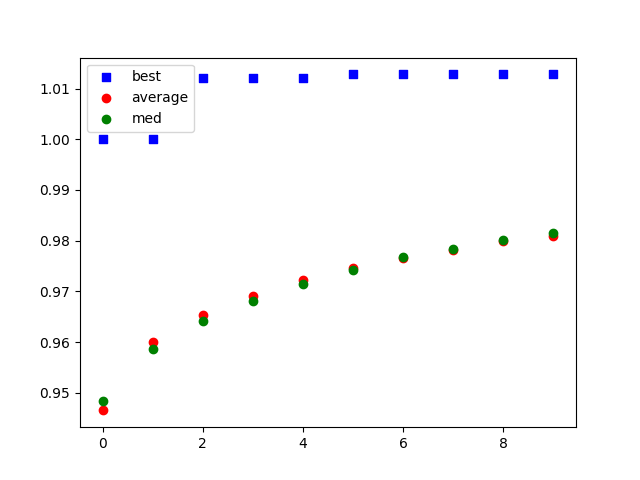
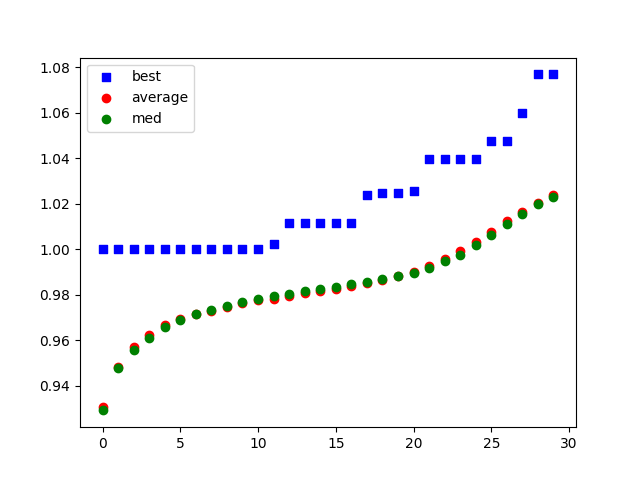
plotting fitness characterisitics

diff --git a/genetic_algorithm/population.py b/genetic_algorithm/population.py
@@ -31,20 +31,20 @@ class Population:
         self.done_running = False
     
     def evaluate_population(self):
+        self.performance_dict = {}
         for index, member in enumerate(self.population):
             # Assign the member a unique_id equal to index. 
             member.unique_id = index
-            score = self.fitness_function(member.obj, self.initial_metrics)
+            FitnessObj = self.fitness_function(member.obj, self.initial_metrics)
 
             # Check that this is the first time we see this id. 
             if member.unique_id in self.performance_dict:
                 RootLogger.log_warning(f'Population members with duplicate ids found in population. Overwriting fitness.')
-            self.performance_dict[member.unique_id] = score 
-        
-        self.set_performance_metrics()
+            self.performance_dict[member.unique_id] = FitnessObj
+        self.set_performance_metrics(self.performance_dict)
     
     def select_parents(self, pool: List[Chromosome]) -> Tuple[Chromosome, Chromosome]:
-        weights = scale_to_prob_dist([self.performance_dict[m.unique_id] for m in pool])
+        weights = scale_to_prob_dist([self.performance_dict[m.unique_id].fitness for m in pool])
 
         [parent_1, parent_2] = np.random.choice(pool, 
                                                      size=2, replace=False, 
@@ -77,7 +77,6 @@ class Population:
     def update_population(self):
         new_population = self.get_next_population()
         self.population = new_population
-        self.performance_dict = {}
         RootLogger.log_debug('New population updated successfully.')
         self.iteration_number += 1
 
@@ -93,7 +92,7 @@ class Population:
         # Select best performing networks
         RootLogger.log_debug(f'Performing Elitist Selection on population.')
         elitist_num = int(self.elitist_cutoff*self.population_size)
-        sorted_by_performance = sorted(self.population, key=lambda mem: self.performance_dict[mem.unique_id], reverse=True)
+        sorted_by_performance = sorted(self.population, key=lambda mem: self.performance_dict[mem.unique_id].fitness, reverse=True)
         top_performers = sorted_by_performance[:elitist_num]
         bot_performers = sorted_by_performance[elitist_num:]
         self.dispose_of_dead_chromosomes(bot_performers)
@@ -113,28 +112,47 @@ class Population:
         RootLogger.log_info(f'Done generating next Population...')
         return new_population
 
-    def set_performance_metrics(self):
-        metrics = self.generate_metrics()
+    def set_performance_metrics(self, current_fitness_metrics):
+        metrics = self.generate_metrics(current_fitness_metrics)
         self.per_round_metrics.append(metrics)
 
-    def generate_metrics(self):
-        if self.performance_dict == {}:
-            print('it is empty')
-        best_performer = max(self.performance_dict, key=self.performance_dict.get)
-        best_score = max(self.performance_dict.values()) 
+    def generate_metrics(self, current_fitness_metrics):
+        
+        # def get_stats(data: List) -> Tuple[float, float, float]:
+        #     return mean(data), median(data), stdev(data)
+        result = {}
+        best_performer = max(current_fitness_metrics, key=lambda iter: current_fitness_metrics[iter].fitness)
+        best_score = current_fitness_metrics[best_performer].fitness
+        result['best_performer'] = best_performer
+        result['best_fitness'] = best_score
 
-        avg_score = mean(self.performance_dict.values())
-        med_score = median(self.performance_dict.values())
+        tracking_metrics = current_fitness_metrics[0].get_metrics_list()
 
-        stdev_score = stdev(self.performance_dict.values())
+        metric_dicts = [f.to_dict() for f in current_fitness_metrics.values()]
+        for metric in tracking_metrics:
+            metric_values = [d[metric] for d in metric_dicts]
+            avg_metric, med_metric, stdev_metric = mean(metric_values), median(metric_values), stdev(metric_values)
+            result[f'avg_{metric}'] = avg_metric
+            result[f'med_{metric}'] = med_metric
+            result[f'stddev_{metric}'] = stdev_metric
+        
 
-        return {
-            'best_performer': best_performer, 
-            'best_fitness': best_score, 
-            'avg_score': avg_score, 
-            'med_score': med_score,
-            'stdev': stdev_score
-        }
+
+
+        # fitness_scores = [k.fitness for k in current_fitness_metrics.values()]
+        # avg_score, med_score, stdev_score = get_stats(fitness_scores)
+
+        # rirdership_values = [k.ridership_val for k in current_fitness_metrics.values()]
+        # avg_ridership, med_ridership, stdev_ridership = get_stats(rirdership_values)
+
+        # num_routes_values = [k.routes_val for k in current_fitness_metrics.values()]
+        # avg_num_routes, med_num_routes, stdev_num_routes = get_stats(num_routes_values)
+
+        # coverage_values = [k.coverage_val for k in current_fitness_metrics.values()]
+        # avg_coverage, med_coverage, stdev_coverage = get_stats(coverage_values)
+
+
+        return result
     def run(self, max_iteration: int):
         RootLogger.log_info(f'Running population for {max_iteration} iterations.')
 
@@ -149,16 +167,17 @@ class Population:
         self.done_running = True
         return self.per_round_metrics
     
-    def export_metrics(self, filename='results.csv') -> str:
+    def export_metrics(self, metrics_filename='results.csv') -> Tuple[str, str]:
         if not self.done_running:
             RootLogger.log_warning(f'Generating Metrics for unfinished population object...')
-        RootLogger.log_info(f'Outputting metrics to {filename}...')
+        RootLogger.log_info(f'Outputting metrics to {metrics_filename}...')
 
         df = pd.DataFrame(self.per_round_metrics)
-        df.to_csv(filename, index_label='iteration')
+        df.to_csv(metrics_filename, index_label='iteration')
 
-        RootLogger.log_info(f'Done outputting metrics to {filename}!')
-        return filename
+        RootLogger.log_info(f'Done outputting metrics to {metrics_filename}!')
+
+        return metrics_filename
         
             
     

diff --git a/graph_metrics.py b/graph_metrics.py
@@ -2,27 +2,55 @@ import matplotlib.pyplot as plt
 import pandas as pd 
 
 INTERATION_HEADER = 'iteration'
-AVERAGE_FITNESS_HEADER = 'avg_score'
-BEST_FITNESS_HEADER = 'best_fitness'
-MEDIAN_FITNESS_HEADER = 'med_score'
+FITNESS_HEADER = 'fitness'
 TIME_HEADER = 'time'
+
+RIDERSHIP_HEADER = 'ridership_val'
+NUM_ROUTES_HEADER = 'routes_val'
+COVERAGE_HEADER = 'coverage_val'
+RIDERSHIP_DENSITY_HEADER = 'ridership_density_val'
+
+def get_header(base: str, add_on: str):
+    return add_on + '_' + base
 
 def plot_per_round_metrics(filename, output_file='plot1.png'):
     df = pd.read_csv(filename)
-    plt.plot(df[INTERATION_HEADER], df[AVERAGE_FITNESS_HEADER])
+    plt.plot(df[INTERATION_HEADER], df[get_header(FITNESS_HEADER, 'avg')])
     plt.savefig(output_file)
 
+def plot_all_fitness_stats(filename, output_file='fitness_plot.png'):
+    df = pd.read_csv(filename)
+    x = df[INTERATION_HEADER]
+    avg_overall = df[get_header(FITNESS_HEADER, 'avg')]
+    ridership = df[get_header(RIDERSHIP_HEADER, 'avg')]
+    num_routes = df[get_header(NUM_ROUTES_HEADER, 'avg')]
+    coverage = df[get_header(COVERAGE_HEADER, 'avg')]
+    ridership_density = df[get_header(RIDERSHIP_DENSITY_HEADER, 'avg')]
+
+    fig = plt.figure()
+    ax1 = fig.add_subplot(111)
+    print(ridership)
+    ax1.scatter(x, avg_overall, c='black', marker="o", label='overall')
+    ax1.scatter(x, ridership, c='blue', marker="o", label='ridership')
+    ax1.scatter(x, num_routes, c='green', marker="o", label='num_routes')
+    ax1.scatter(x, coverage, c='red', marker="o", label='coverage')
+    ax1.scatter(x, ridership_density, c='orange', marker="o", label='ridership_density')
+
+    plt.legend(loc='upper left')
+    plt.savefig(output_file)
+    plt.clf()
+    
 
 def plot_all_stats(filename, output_file='plot_comb.png'):
     df = pd.read_csv(filename)
     x = df[INTERATION_HEADER]
-    avg = df[AVERAGE_FITNESS_HEADER]
-    best = df[BEST_FITNESS_HEADER]
-    med = df[MEDIAN_FITNESS_HEADER]
+    avg = df[get_header(FITNESS_HEADER, 'avg')]
+    best = df[get_header(FITNESS_HEADER, 'best')]
+    med = df[get_header(FITNESS_HEADER, 'med')]
     fig = plt.figure()
     ax1 = fig.add_subplot(111)
 
-    ax1.scatter(x, best, c='b', marker="s", label='best')
+    ax1.scatter(x, best, c='b', marker="o", label='best')
     ax1.scatter(x, avg, c='r', marker="o", label='average')
     ax1.scatter(x, med, c='g', marker="o", label='med')
     plt.legend(loc='upper left')

diff --git a/genetic_algorithm/fitness_function.py b/genetic_algorithm/fitness_function.py
@@ -2,14 +2,36 @@ from transit_network.transit_network import TransitNetwork
 import genetic_algorithm.params as params
 from genetic_algorithm.network_metrics import NetworkMetrics
 
+class Fitness:
+
+    def __init__(self, ridership_val: float, routes_val: float, coverage_val: float, ridership_density_val: float, fitness: float):
+        self.ridership_val = ridership_val / (params.sum_of_fitness_coefficients())
+        self.routes_val = routes_val / (params.sum_of_fitness_coefficients())
+        self.coverage_val = coverage_val / (params.sum_of_fitness_coefficients())
+        self.ridership_density_val = ridership_density_val / (params.sum_of_fitness_coefficients())
+        self.fitness = fitness
+    
+    def to_dict(self):
+        return {
+            'ridership_val': self.ridership_val, 
+            'routes_val': self.routes_val, 
+            'coverage_val': self.coverage_val, 
+            'ridership_density_val': self.ridership_density_val, 
+            'fitness': self.fitness
+        }
+    
+    def get_metrics_list(self):
+        return list(self.to_dict().keys())
+
 def evaluate_network(net: TransitNetwork, initial_metrics: NetworkMetrics) -> float:
     # Need to scale these. 
     ridership_val = (net.ridership / initial_metrics.ridership) * params.RIDERSHIP_LAMBDA
     routes_val = (len(net.routes) / initial_metrics.num_routes) * params.NUM_ROUTES_LAMBDA
     coverage_val = (net.coverage / initial_metrics.coverage) * params.COVERAGE_LAMBDA
     ridership_density_val = (net.ridership_density_score / initial_metrics.ridership_density_score) * params.RIDERSHIP_DENSITY_LAMBDA
-    
-    return (ridership_val + routes_val + coverage_val + ridership_density_val)/(params.sum_of_fitness_coefficients())
+    fitness = (ridership_val + routes_val + coverage_val + ridership_density_val)/(params.sum_of_fitness_coefficients())
+    FitnessObj = Fitness(ridership_val, routes_val, coverage_val, ridership_density_val, fitness)
+    return FitnessObj
 
 def evaluate_network_new(net: TransitNetwork):
 

diff --git a/genetic_algorithm/initial_population_generator.py b/genetic_algorithm/initial_population_generator.py
@@ -52,7 +52,7 @@ def generate_metrics(initial_network: TransitNetwork, final_population: List[Tra
     original_metric = NetworkMetrics(initial_network)
     all_metrics = []
     fitness_scores = []
-    original_fitness = evaluate_network(initial_network, original_metric)
+    original_fitness = evaluate_network(initial_network, original_metric).fitness
 
     for other_network in final_population:
 
@@ -60,7 +60,7 @@ def generate_metrics(initial_network: TransitNetwork, final_population: List[Tra
             other_net_metric = NetworkMetrics(other_network)
             similarity_scores = original_metric.similarity(other_net_metric)
             all_metrics.append(similarity_scores)
-            other_fitness = evaluate_network(other_network, original_metric)
+            other_fitness = evaluate_network(other_network, original_metric).fitness
             fitness_scores.append(other_fitness)
     
     route_similarities = [row[0] for row in all_metrics]

diff --git a/playground.py b/playground.py
@@ -1,6 +1,6 @@
 from genetic_algorithm.initial_population_generator import initiate_population_from_network
 from utility import read_object_from_file
-from graph_metrics import plot_per_round_metrics, plot_all_stats, plot_time
+from graph_metrics import plot_per_round_metrics, plot_all_stats, plot_time, plot_all_fitness_stats
 from genetic_algorithm.breeder import breed_networks
 """
 This script is purely for informal testing and 'playing' with new code. 
@@ -19,10 +19,11 @@ print(Network)
 # print(net1, net2, net3, net4, net5, net6)
 
 Pop = initiate_population_from_network(Network, 1000)
-res = Pop.run(10)
-filename = Pop.export_metrics()
-plot_all_stats(filename)
-plot_time(filename)
+res = Pop.run(30)
+results_filename = Pop.export_metrics()
+plot_all_stats(results_filename)
+plot_all_fitness_stats(results_filename)
+plot_time(results_filename)
 
 
 # print(Network.ridership_density_score)
